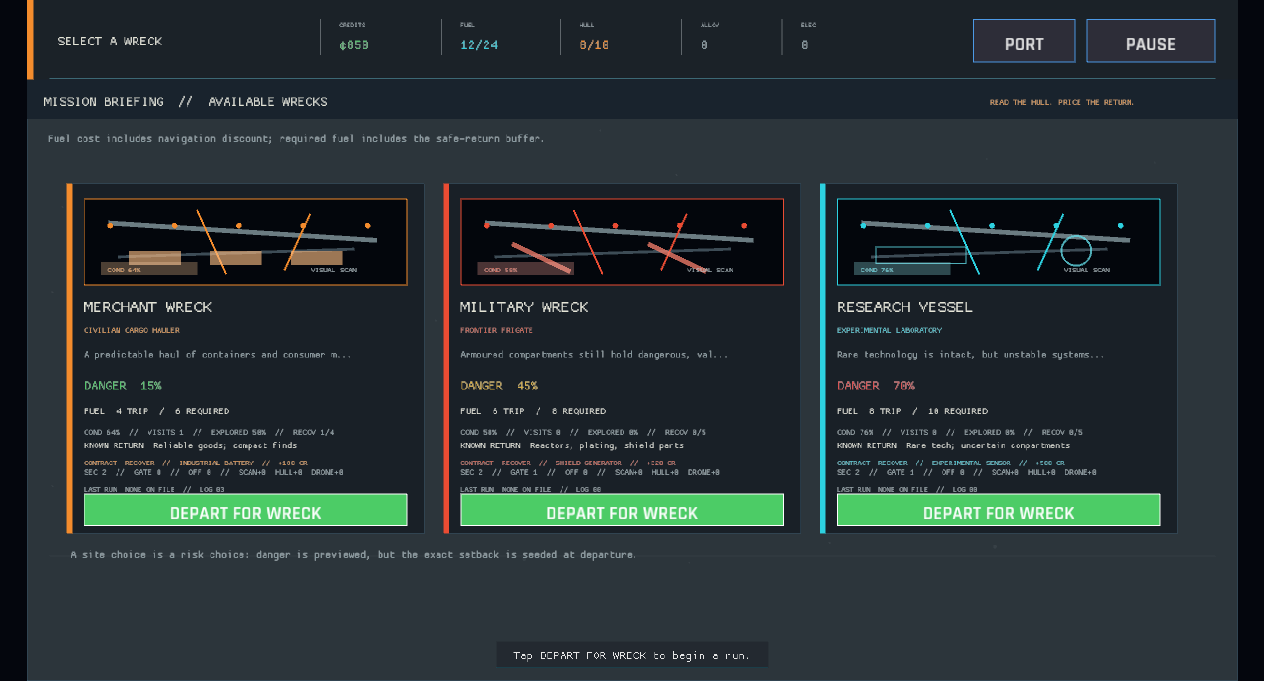
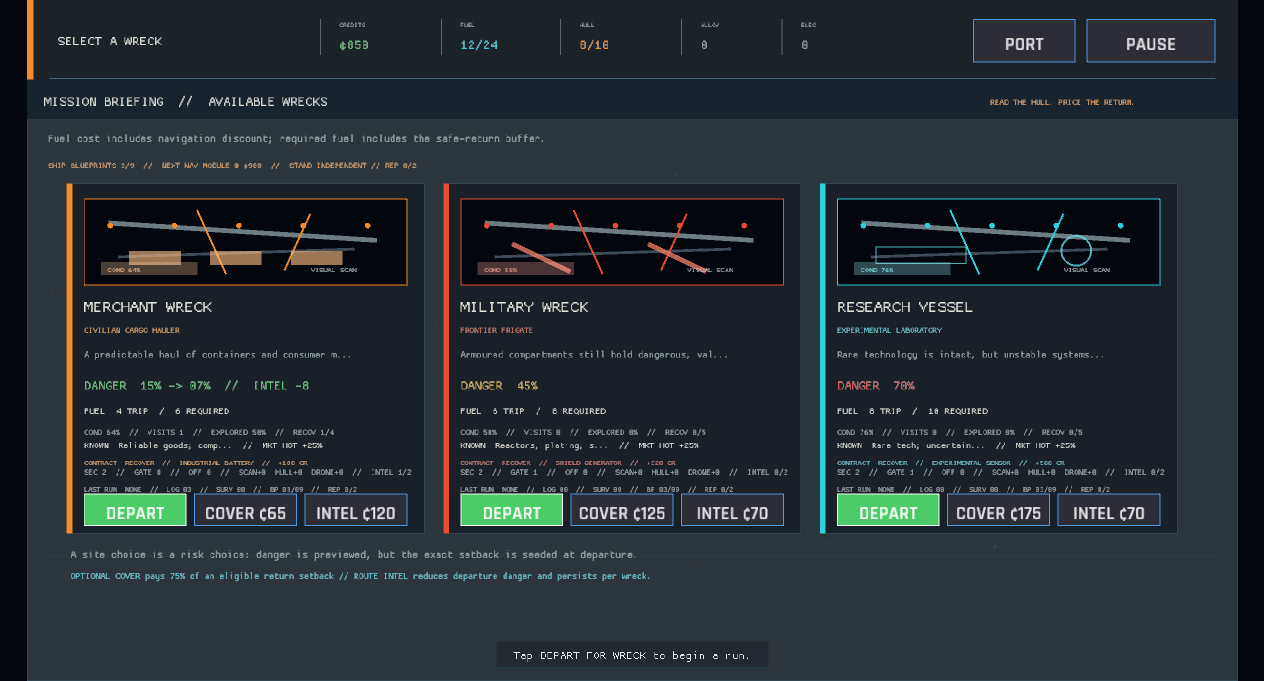
The briefing reveals what the paid route buys (recon danger preview)
Mission cards now compare authored danger with the lower departure forecast produced by each saved intelligence level. The persistent-progress verification scene demonstrates the first reduction and the escalated next brief price without changing the core route rules.

diff --git a/src/ui/site_cards.rs b/src/ui/site_cards.rs
@@ -146,11 +146,11 @@ fn draw_site_card(
         visual_theme::text_dim(),
     );
     draw_text(
-        format!("DANGER  {:02}%", site.danger),
+        site_danger_label(site, ctx.session, ctx.data),
         rect.x + 18.0,
         rect.y + 218.0,
         17.0,
-        danger_color(site.danger),
+        danger_color(site_departure_danger(site, ctx.session, ctx.data)),
     );
     let cost = ctx
         .session
@@ -433,6 +433,37 @@ fn site_market_outlook_label(
         quote.band.label(),
         quote.signed_multiplier()
     )
+}
+
+fn site_departure_danger(
+    site: &crate::data::SiteData,
+    session: &GameSession,
+    data: &GameData,
+) -> i32 {
+    crate::engine::danger_after_intel(
+        site.danger,
+        session.reconnaissance_level(&site.id),
+        &data.config.reconnaissance,
+    )
+}
+
+fn site_danger_label(
+    site: &crate::data::SiteData,
+    session: &GameSession,
+    data: &GameData,
+) -> String {
+    let level = session.reconnaissance_level(&site.id);
+    let danger = site_departure_danger(site, session, data);
+    if level == 0 {
+        format!("DANGER  {:02}%", site.danger)
+    } else {
+        format!(
+            "DANGER  {:02}% -> {:02}%  //  INTEL -{}",
+            site.danger,
+            danger,
+            site.danger - danger
+        )
+    }
 }
 
 fn draw_wreck_brief(x: f32, y: f32, width: f32, height: f32, theme: &str, condition: i32) {

diff --git a/src/ui/site_cards/tests.rs b/src/ui/site_cards/tests.rs
@@ -92,3 +92,20 @@ fn mission_briefing_exposes_route_intelligence_progress_and_price() {
     );
     assert_eq!(reconnaissance_button_label(quote, true, true), "INTEL ¢70");
 }
+
+#[test]
+fn mission_briefing_shows_the_danger_reduction_from_saved_intel() {
+    let data = GameData::load().unwrap();
+    let site = data.sites.get("military_wreck").unwrap();
+    let mut session = GameSession::new(&data);
+    session
+        .site_progress
+        .get_mut("military_wreck")
+        .unwrap()
+        .reconnaissance_level = 1;
+
+    assert_eq!(
+        site_danger_label(site, &session, &data),
+        "DANGER  45% -> 37%  //  INTEL -8"
+    );
+}

diff --git a/src/game/capture.rs b/src/game/capture.rs
@@ -196,6 +196,7 @@ impl Game {
                     progress.visits = 1;
                     progress.discovered_sections = vec!["cargo_bay".to_owned()];
                     progress.removed_targets = vec!["industrial_battery".to_owned()];
+                    progress.reconnaissance_level = 1;
                     progress.operation_log = vec![
                         WorkspaceLogEntry::new(
                             1,
